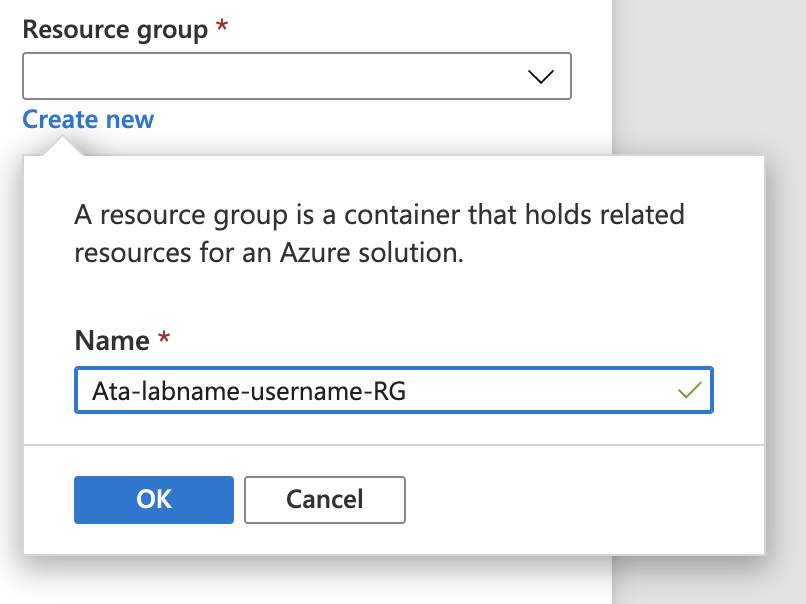
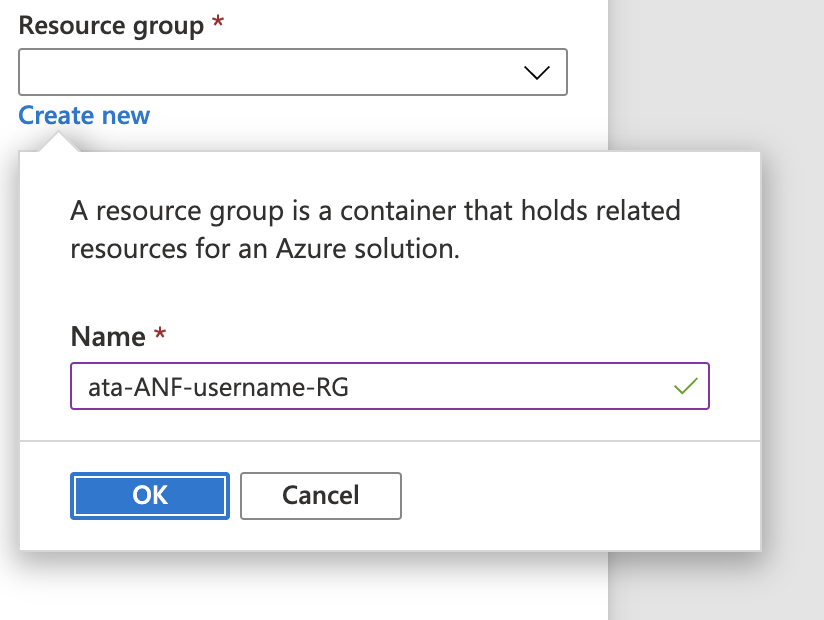
Update Images and README

Changed region(s): [[0.0, 0.0, 0.9615, 1.0], [0.062, 0.3278, 0.8685, 0.447], [0.031, 0.2384, 0.062, 0.2682]]

diff --git a/month1/labs/lab_ANF/README.md b/month1/labs/lab_ANF/README.md
@@ -67,7 +67,7 @@ Select Create new to create new resource group.
 
 <img src="./images/Resource-Group.png" alt="Create RG" width="400">
 
-Enter **Ata-labname-username-RG** for the resource group name. Click OK.
+Enter **ata-ANF-username-RG** for the resource group name. Click OK.
 
 
 Select your account location.
@@ -130,7 +130,7 @@ Enter **myvnet1** as the Vnet name
 
 **Accept the default address range**, for example, 10.7.0.0/16
 
-Enter **myANFsubnet** as the subnet name
+Leave **default** as the subnet name
 
 **Accept the default address range, for example**, 10.7.0.0/24
 
@@ -145,7 +145,7 @@ Click **Protocol**, from the Top Selection
 
 Select **NFS** as the protocol type for the volume
 
-Enter **myfilepath1** as the file path that will be used to create the export path for the volume
+Enter **myvol1** as the file path that will be used to create the export path for the volume
 
 Select the NFS version **NFSv3**
 
@@ -173,14 +173,14 @@ Finally Click the **Create Button**
 -  When prompted select **Bash** and if necessary answer **create** to a cloud shell storage account (it will be very tiny)
 
 - Create VM1 
-        At the command prompt, paste in this text below
+        At the command prompt, paste in this text below, **replacing the Resource Group** with your Resource Group
         
-            az vm create --resource-group Ata-labname-username-RG --name VM1 --image UbuntuLTS --admin-username ata --admin-password Trailblazer1! --nsg-rule ssh --vnet-name myvnet1 --subnet default --public-ip-address “”
+            az vm create --resource-group Ata-ANF-username-RG --name WebVM1 --image UbuntuLTS --admin-username ata --admin-password Trailblazer1! --nsg-rule ssh --vnet-name myvnet1 --subnet default --plan-publisher nginxinc --plan-product nginx-plus-v1 --plan-name nginx-plus-ub1804 --image nginxinc:nginx-plus-v1:nginx-plus-ub1804:2.0.0
             
 - Create VM2
-        At the command prompt, paste in this text below
+        At the command prompt, paste in this text below, **replacing the Resource Group** with your Resource Group
         
-        az vm create --resource-group Ata-labname-username-RG --name VM2 --image UbuntuLTS --admin-username ata --admin-password Trailblazer1! --nsg-rule ssh --vnet-name myvnet1 --subnet default --public-ip-address “”
+        az vm create --resource-group Ata-ANF-username-RG --name WebVM2 --image UbuntuLTS --admin-username ata --admin-password Trailblazer1! --nsg-rule ssh --vnet-name myvnet1 --subnet default --plan-publisher nginxinc --plan-product nginx-plus-v1 --plan-name nginx-plus-ub1804 --image nginxinc:nginx-plus-v1:nginx-plus-ub1804:2.0.0
         
 
 
